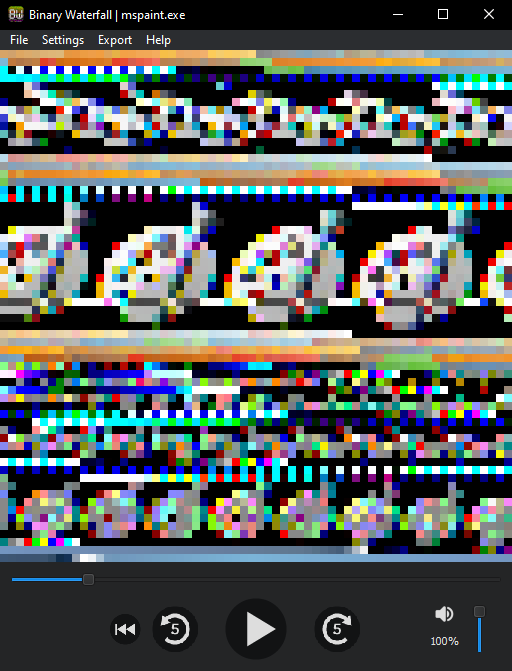
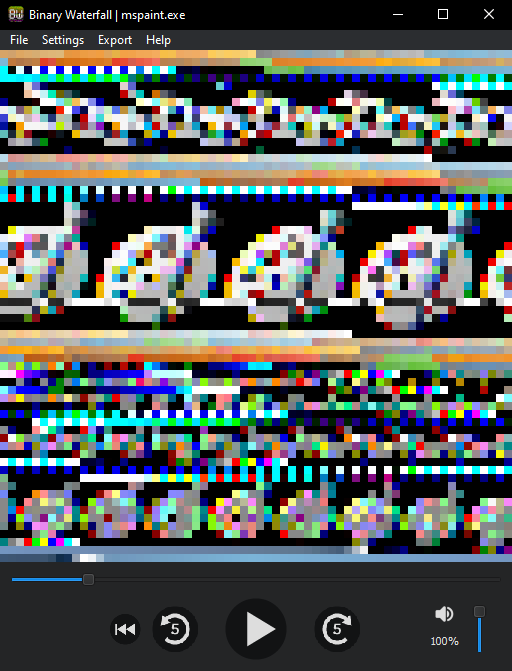
Made playhead even more visible

diff --git a/src/binary_waterfall/helpers/colors.py b/src/binary_waterfall/helpers/colors.py
@@ -1,25 +1,55 @@
 from .general import grouper
 
 
-def invert_bytes(bytestring):
-    return bytes([0xFF - x for x in bytestring])
+def get_luminance(r, g, b):
+    return ((0.299 * r) + (0.587 * g) + (0.114 * b)) / 0xFF
 
 
-def desaturate_rgb_byte(bytestring):
+def pick_shade_from_luminance(r, g, b, light_shade=0xFF, dark_shade=0x00):
+    if get_luminance(r, g, b) < 0.5:
+        return light_shade, light_shade, light_shade
+    else:
+        return dark_shade, dark_shade, dark_shade
+
+
+def desaturate(r, g, b):
+    gray_value = round((min(r, g, b) + max(r, g, b)) / 2)
+
+    return gray_value, gray_value, gray_value
+
+
+def invert(r, g, b):
+    return (0xFF - x for x in [r, g, b])
+
+
+def average(r1, g1, b1, r2, g2, b2):
+    return (round((x + y) / 2) for x, y in zip((r1, g1, b1), (r2, g2, b2)))
+
+
+def split_rgb_byte(bytestring):
     r = bytestring[0]
     g = bytestring[1]
     b = bytestring[2]
 
-    gray_value = round((min(r, g, b) + max(r, g, b)) / 2)
-
-    desaturated = bytes([gray_value, gray_value, gray_value])
-
-    return desaturated
+    return r, g, b
 
 
-def desaturate_rgb_bytes(bytestring):
+def filter_rgb_bytes(bytestring, filter_function):
     result = bytes()
     for byte in grouper(bytestring, 3, 0x00):
-        result += desaturate_rgb_byte(byte)
+        r, g, b = split_rgb_byte(byte)
+        r_filtered, g_filtered, b_filtered = filter_function(r, g, b)
+        result += bytes([r_filtered, g_filtered, b_filtered])
+
+    return result
+
+
+def average_rgb_bytes(bytestring_a, bytestring_b):
+    result = bytes()
+    for byte_a, byte_b in zip(grouper(bytestring_a, 3, 0x00), grouper(bytestring_b, 3, 0x00)):
+        r_a, g_a, b_a = split_rgb_byte(byte_a)
+        r_b, g_b, b_b = split_rgb_byte(byte_b)
+        r_average, g_average, b_average = average(r_a, g_a, b_a, r_b, g_b, b_b)
+        result += bytes([r_average, g_average, b_average])
 
     return result

diff --git a/src/binary_waterfall/generators.py b/src/binary_waterfall/generators.py
@@ -463,8 +463,13 @@ class BinaryWaterfall:
             playhead_start = playhead_row * row_size
             playhead_end = playhead_start + row_size
 
-            playhead = helpers.invert_bytes(picture_bytes[playhead_start:playhead_end])
-            playhead = helpers.desaturate_rgb_bytes(playhead)
+            playhead = picture_bytes[playhead_start:playhead_end]
+            playhead_contrast = helpers.filter_rgb_bytes(playhead, helpers.pick_shade_from_luminance)
+
+            playhead = helpers.filter_rgb_bytes(playhead, helpers.invert)
+            playhead = helpers.filter_rgb_bytes(playhead, helpers.desaturate)
+            playhead = helpers.average_rgb_bytes(playhead, playhead_contrast)
+
 
             picture_bytes = picture_bytes[:playhead_start] + playhead + picture_bytes[playhead_end:]
 

diff --git a/src/binary_waterfall/helpers/__init__.py b/src/binary_waterfall/helpers/__init__.py
@@ -1,4 +1,7 @@
 from .images import get_size_for_fit_frame, fit_to_frame
 from .qt import QtBarLoggerMoviepy
 from .general import make_file_path, grouper
-from .colors import invert_bytes, desaturate_rgb_bytes
+from .colors import (
+    pick_shade_from_luminance, desaturate, invert, average,
+    filter_rgb_bytes, average_rgb_bytes
+)
